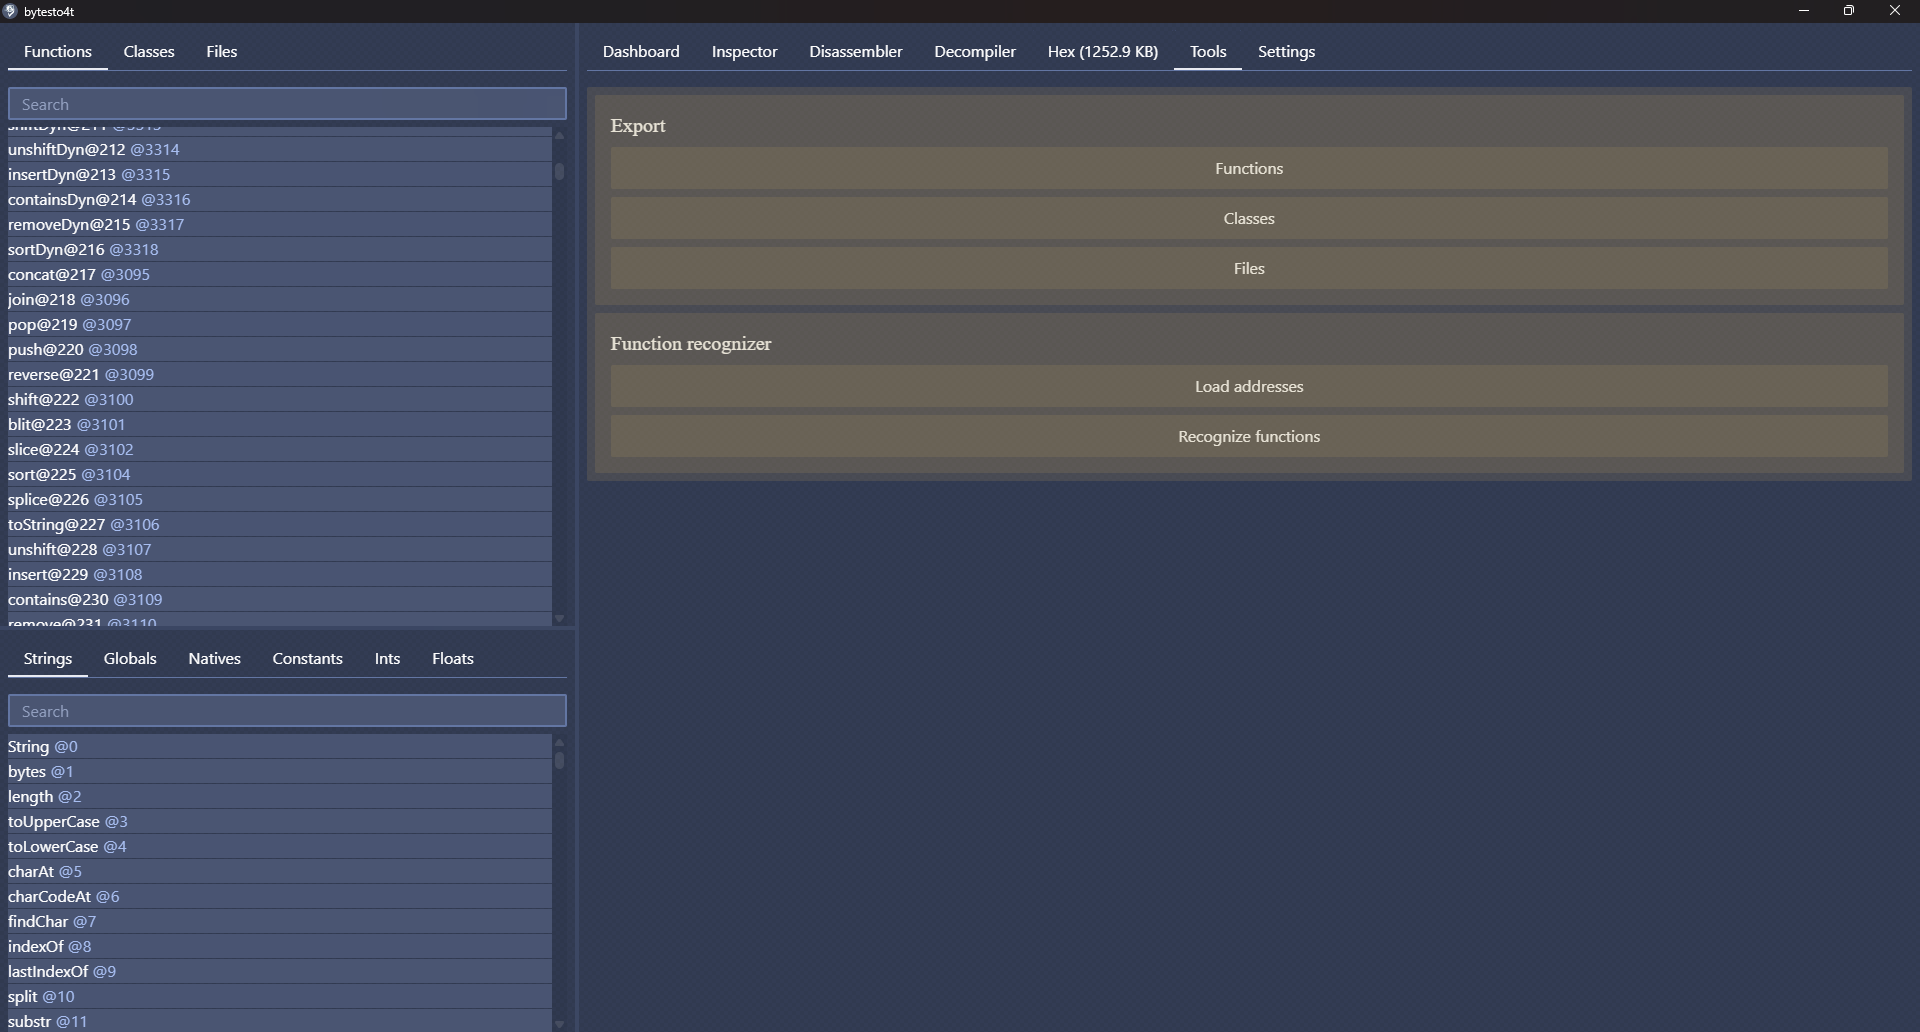
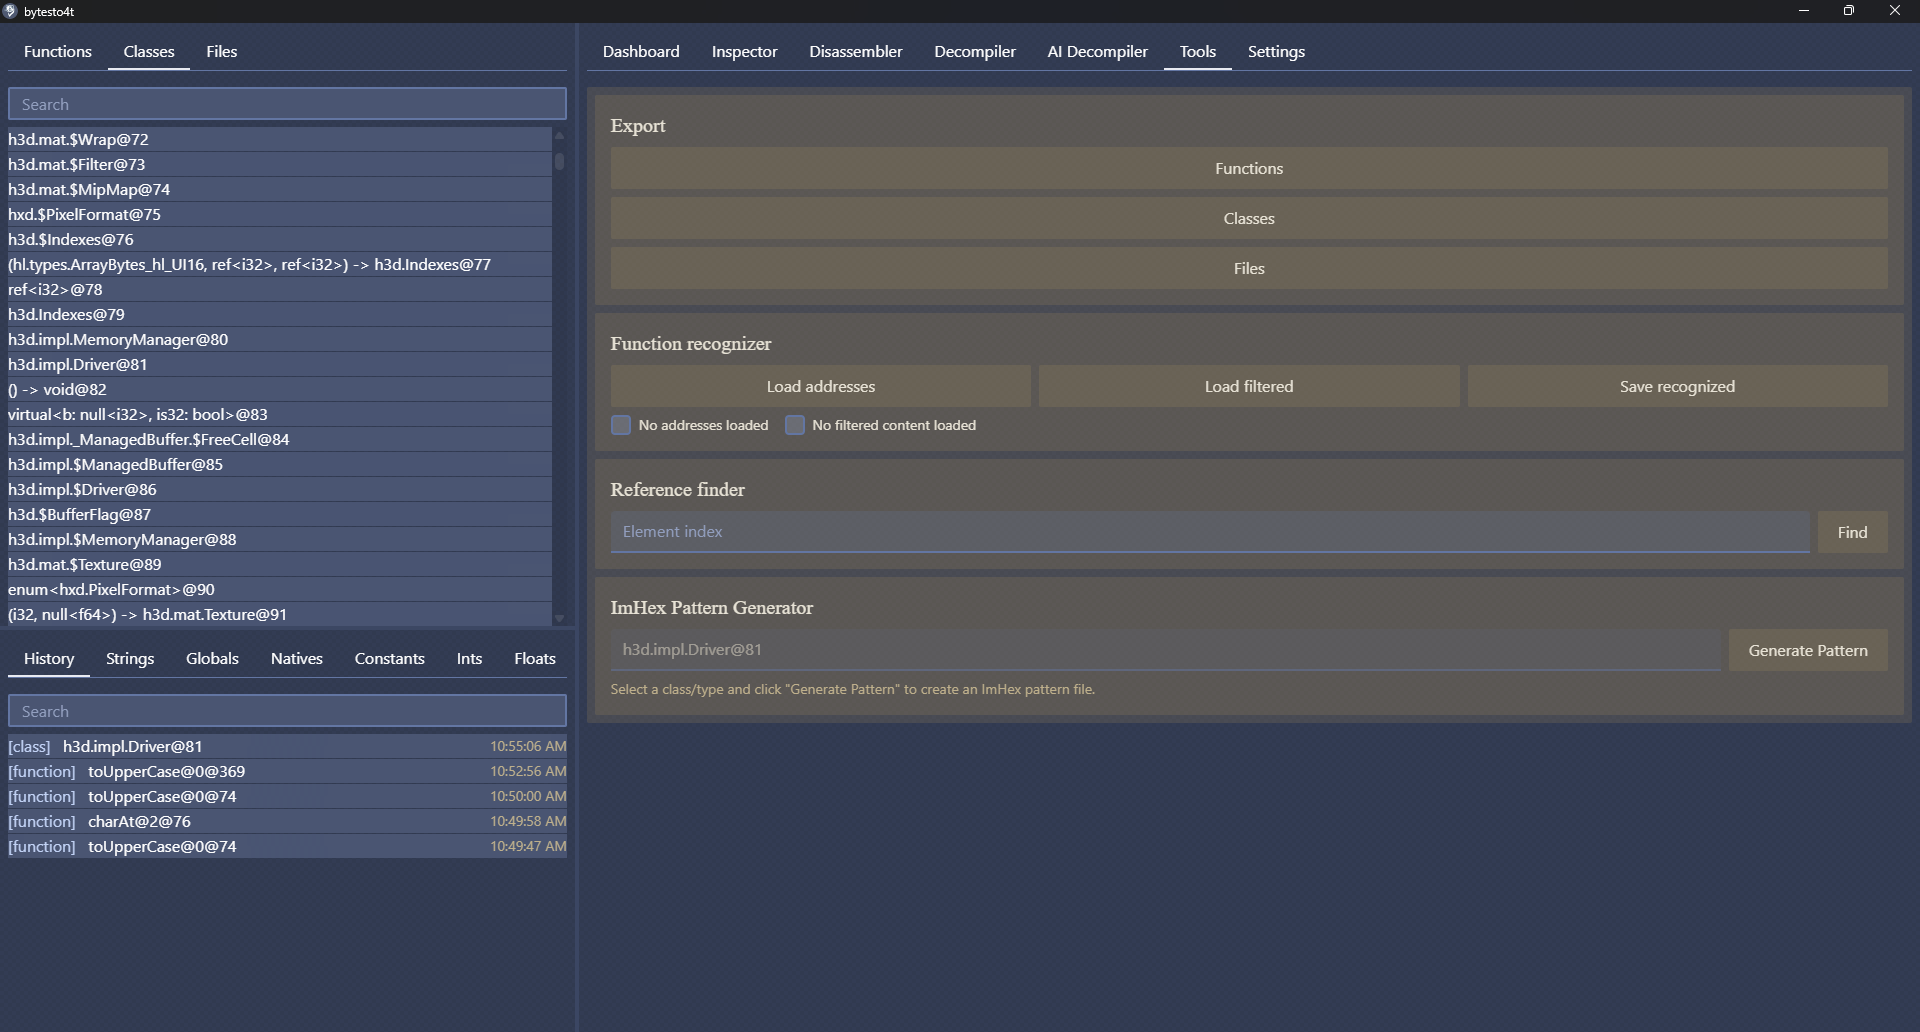
Release v1.4

diff --git a/bytesto4t/src/routes/+page.svelte b/bytesto4t/src/routes/+page.svelte
@@ -123,7 +123,7 @@
     <div class="h-16 w-16">
       <img class="h-auto max-w-full rounded-lg" src="/assets/logo.png" alt="Logo">
     </div>
-    <h1 class="text-4xl">ByteSto4t v.1.3</h1>
+    <h1 class="text-4xl">ByteSto4t v.1.4</h1>
   </div>
   <div class="browse-field flex space-x-4">
     <input class="input" type="text" placeholder="Enter path to file" bind:value={targetFilePath} on:keydown={onEnterDown} />

diff --git a/README.md b/README.md
@@ -23,10 +23,21 @@ Simple application that allows you to see internals of `hlboot.dat` file.
   </div>
 </div>
 
-# Planned
+Features:
+- [hlbc](https://github.com/Gui-Yom/hlbc) Disassembler & Decompiler
+- AI Decompiler (requires https://openrouter.ai/ account)
+- Function recognizer - allows you to fill function addresses with function names
+- Reference finder
+- [ImHex](https://github.com/WerWolv/ImHex) Pattern Generator - allows you to build .hexpat for given Class
+- Customizable Appearance. Available themes:
+  - Skeleton
+  - Wintry
+  - Modern
+  - Rocket
+  - Seafoam
+  - Vintage
+  - Sahara
+  - Hamlindigo
+  - Gold Nouveau
 
-## ByteSto4t
-
-- Fix decompiler crashes
-- Tool that generates `csx` files for chosen class
-- Tool that decompiles all functions and saves them in specified folder. 
+Download [here](https://github.com/FirowMD/hl-rev/releases)
